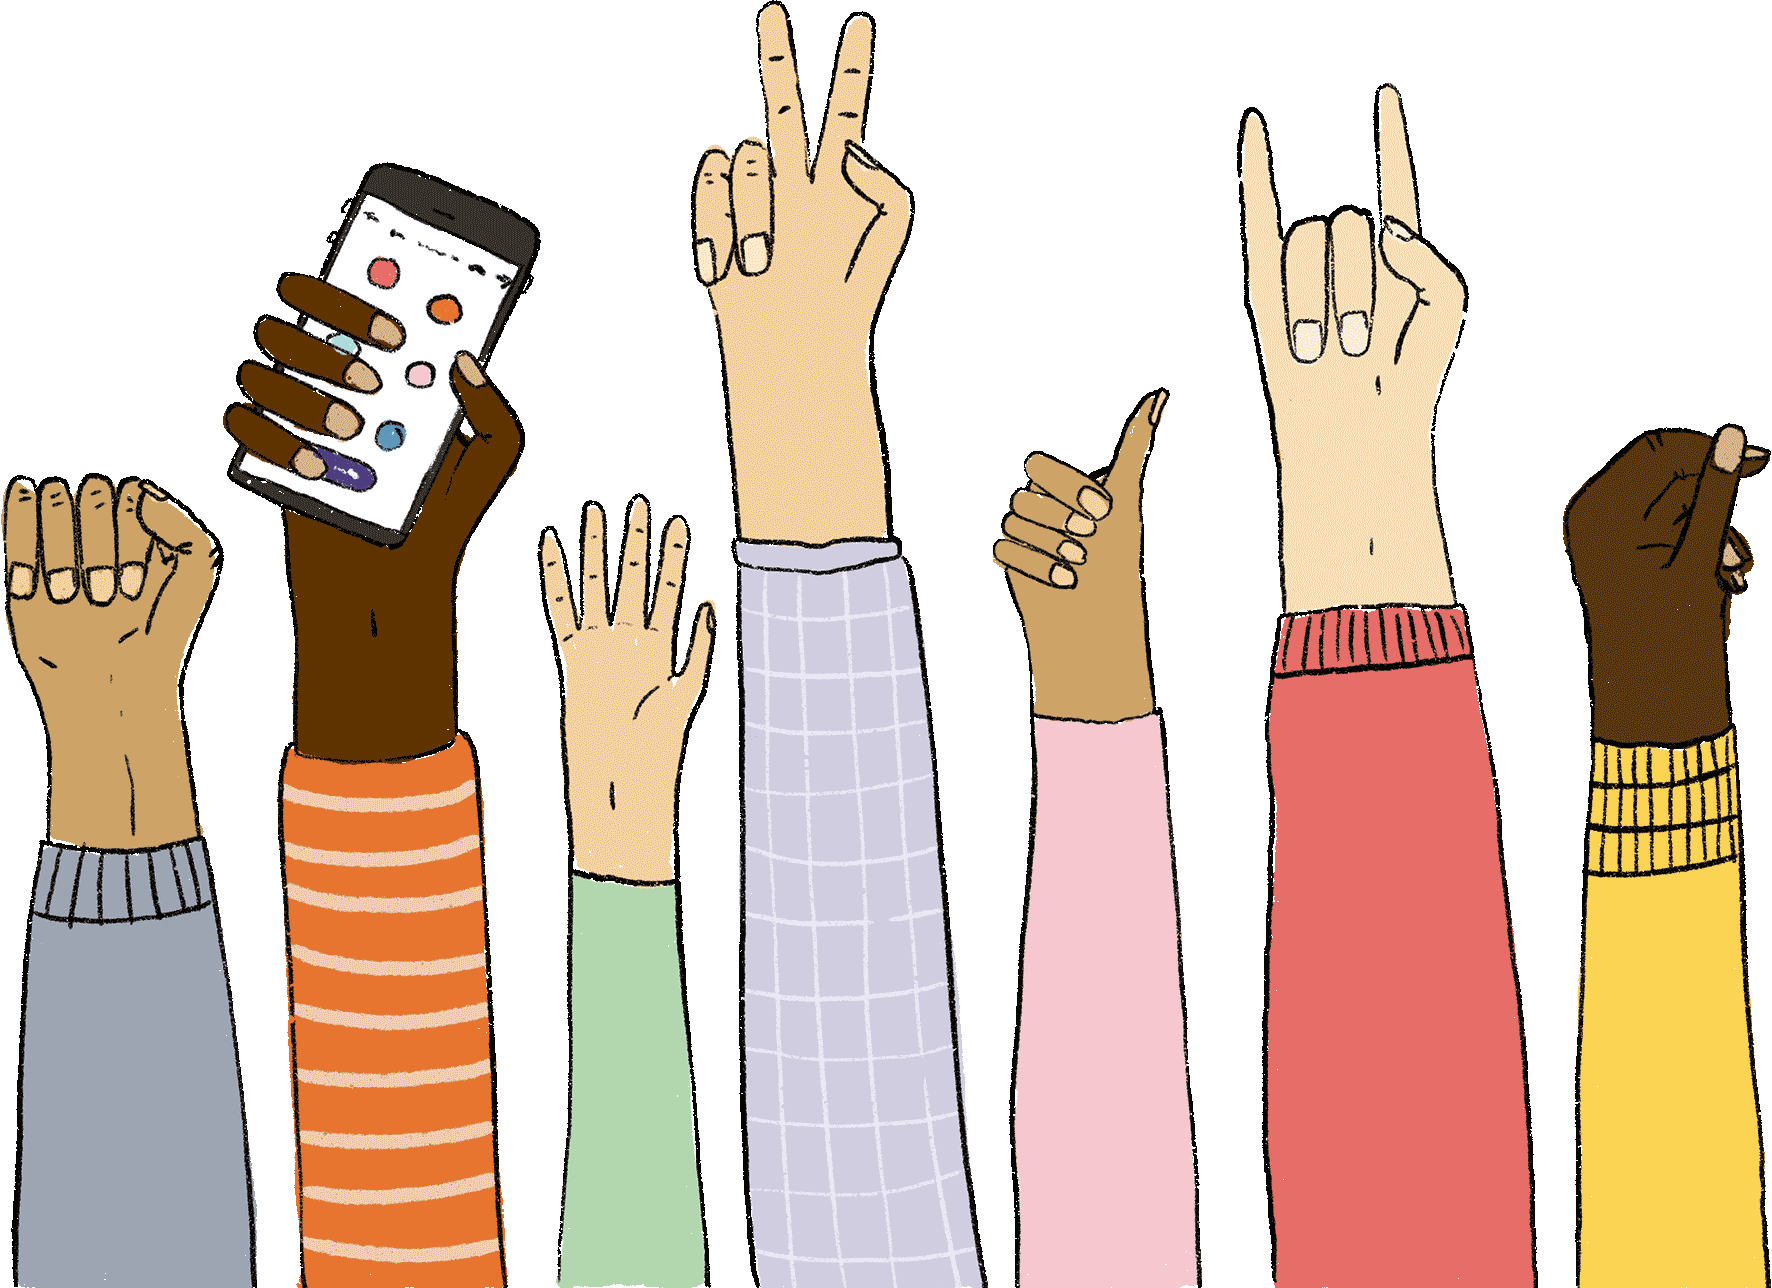
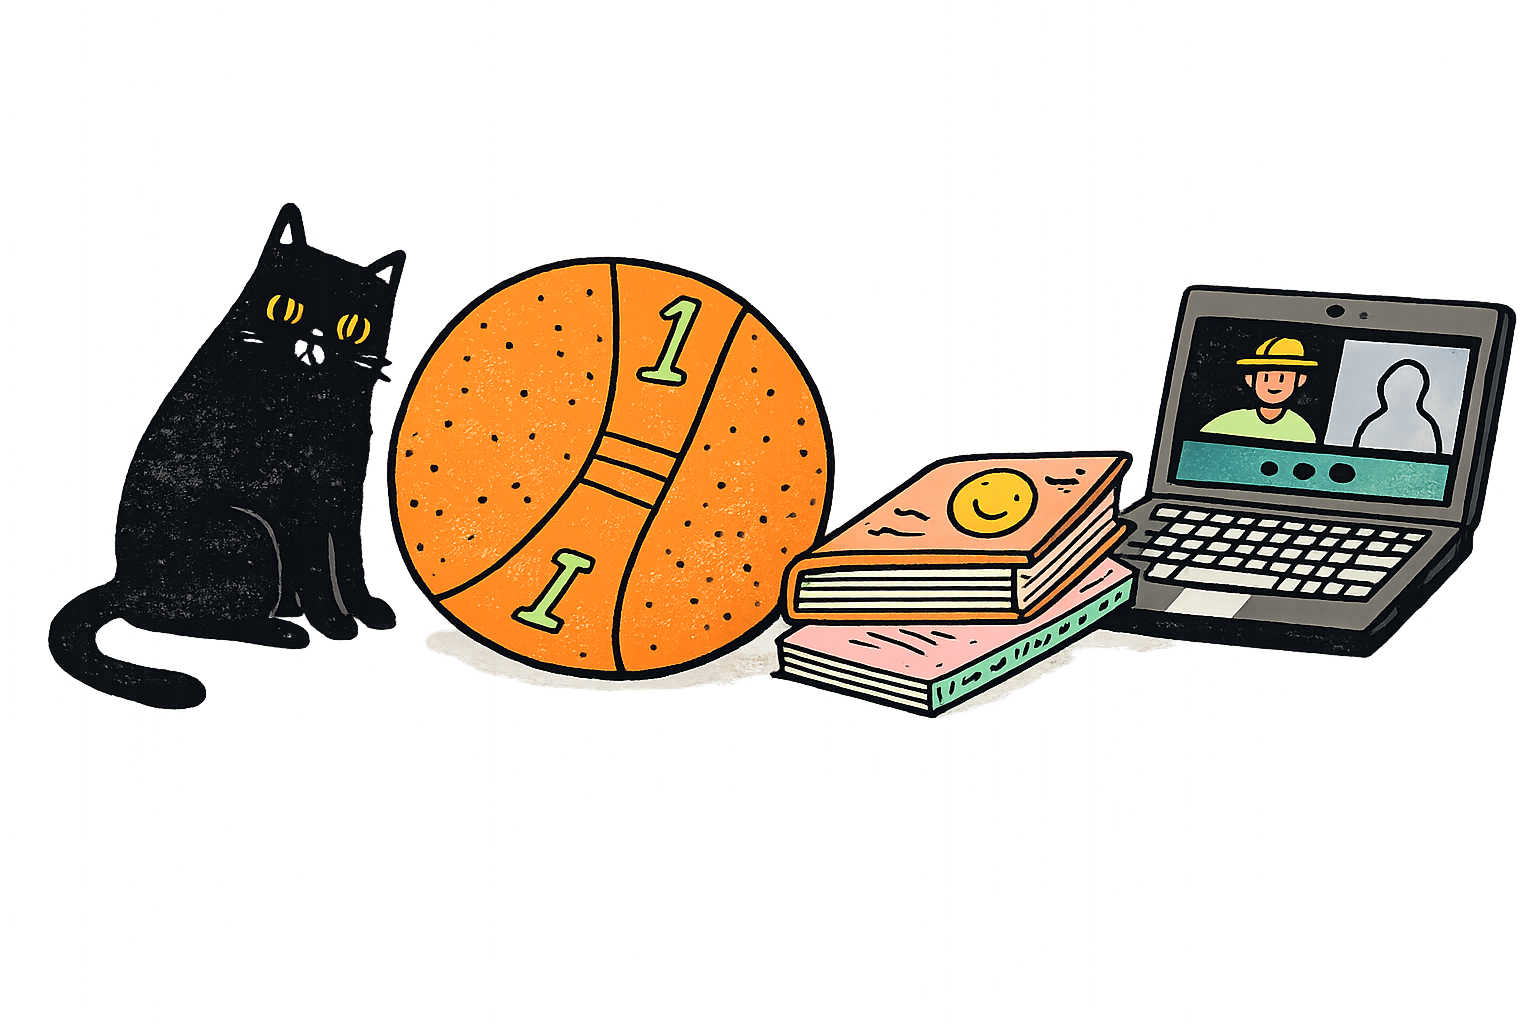
Update Frontend

diff --git a/src/lib/screen-content.tsx b/src/lib/screen-content.tsx
@@ -74,20 +74,29 @@ function Cover() {
   const tr = useTr();
 
   return (
-    <div className="relative flex h-full min-h-0 w-full flex-col overflow-hidden text-white">
-      <div className="mx-auto w-full max-w-[1400px] shrink-0 px-5 pt-1">
-        <h1 className="font-display text-[clamp(18px,1.5vw,25px)] font-medium leading-[1.2]">
-          {tr("Vahvuusportfolio lukiolaiselle")}
-        </h1>
+    <div className="relative flex h-full min-h-[620px] w-full flex-col overflow-hidden px-[5%] text-center font-display text-white">
+      <div className="relative z-10 flex shrink-0 flex-col items-center pt-[7vh]">
+        <div className="text-[clamp(24px,2.4vw,42px)] font-bold leading-none tracking-[0] text-white">
+          {tr("Huomaa hyvä!®")}
+        </div>
 
-        <p className="mt-1 max-w-[1200px] text-[clamp(15px,1.15vw,20px)] leading-[1.4]">
-          {tr(
-            "Tervetuloa vahvuusseikkailuun! Tällä matkalla opit tunnistamaan, kehittämään ja hyödyntämään omia vahvuuksiasi — lukiossa, kotona, vapaa-ajalla ja ystävien kanssa.",
-          )}
-        </p>
+        <h1
+          className="
+            mt-[3vh]
+            max-w-[900px]
+            text-[clamp(30px,3.4vw,48px)]
+            font-medium
+            leading-[1.08]
+            tracking-[0]
+            text-white
+          "
+        >
+          {" "}
+          {trLines(tr, "Vahvuusportfolio\nlukiolaiselle")}
+        </h1>
       </div>
 
-      <div className="flex min-h-0 flex-1 items-end justify-center px-5 pb-0 pt-4">
+      <div className="relative z-0 flex min-h-0 flex-1 items-end justify-center pb-[8vh] pt-[6vh]">
         <img
           src="/illustrations/naytto-1.png"
           alt=""
@@ -95,9 +104,9 @@ function Cover() {
           className="
             block
             h-auto
-            w-auto
-            max-h-[420px]
-            max-w-[520px]
+            w-full
+            max-h-[44vh]
+            max-w-[1160px]
             object-contain
             object-center
             pointer-events-none
@@ -2116,12 +2125,12 @@ export default function Karkkikauppa() {
 
 .ns{--pu:#6C4F9C;--pud:#4E3A78;--ye:#F4C84A;--co:#E8736B;--ink:#2B2342;--wood:#B99444;
  position:relative;display:flex;flex-direction:column;width:100%;height:100%;min-height:0;overflow:hidden;
- padding:18px 20px 0;font-family:'Fredoka',system-ui,sans-serif;background:var(--pu);color:#fff}
+ padding:18px 20px 0;font-family:var(--font-display),'Fredoka',system-ui,sans-serif;background:#7654ad;color:#fff}
 .shopscroll{flex:1;min-height:0;overflow-y:auto;overflow-x:hidden;padding-bottom:32px}
 .ns *{box-sizing:border-box}
-.fd{font-family:'Fredoka',system-ui,sans-serif;font-weight:500}
+.fd{font-family:var(--font-display),'Fredoka',system-ui,sans-serif;font-weight:600}
 
-.deco{position:absolute;pointer-events:none;z-index:0}
+.deco{display:none}
 .d1{top:-100px;left:-76px;width:272px;height:272px;border-radius:50%;background:#EE8C93}
 .d2{top:88px;right:-56px;width:0;height:0;border-left:96px solid transparent;border-right:96px solid transparent;border-bottom:132px solid var(--ye);transform:rotate(20deg)}
 .d3{bottom:170px;left:-58px;width:190px;height:190px;border-radius:50%;background:#8FB6D9;opacity:.55}
@@ -2129,11 +2138,15 @@ export default function Karkkikauppa() {
 
 .hd{position:relative;z-index:2;max-width:1310px;margin:0 auto 14px;display:flex;
  justify-content:space-between;align-items:flex-start;gap:26px;flex-wrap:wrap}
-.h1{font-size:clamp(24px,2.9vw,36px);line-height:1.03;letter-spacing:-.4px;max-width:15ch;margin:0}
-.h1 small{display:block;font-family:'Fredoka';font-weight:400;font-size:13px;line-height:1.55;
- opacity:.9;margin-top:11px;max-width:40ch;letter-spacing:0}
+.h1{font-size:clamp(30px,3.5vw,52px);line-height:1.04;letter-spacing:0;max-width:18ch;margin:0;
+ color:#fff;text-shadow:0 3px 0 rgba(43,35,66,.22)}
+.h1 small{display:block;font-family:var(--font-display),'Fredoka',system-ui,sans-serif;font-weight:500;
+ font-size:clamp(15px,1.35vw,19px);line-height:1.35;color:#fff;opacity:1;margin-top:14px;
+ max-width:42ch;letter-spacing:0;text-shadow:0 2px 0 rgba(43,35,66,.18)}
 .namu{position:relative;flex:0 0 auto;padding:13px 38px;border:3px solid var(--ye);border-radius:11px;
- font-family:'Fredoka';font-size:25px;color:var(--ye);letter-spacing:1px;transform:rotate(-3deg);white-space:nowrap}
+ font-family:var(--font-display),'Fredoka',system-ui,sans-serif;font-size:25px;color:var(--ye);
+ letter-spacing:1px;transform:rotate(-3deg);white-space:nowrap;background:rgba(78,58,120,.72);
+ box-shadow:0 4px 0 rgba(43,35,66,.28)}
 .namu::before,.namu::after{content:"";position:absolute;top:50%;margin-top:-18px;width:0;height:0;
  border-top:18px solid transparent;border-bottom:18px solid transparent}
 .namu::before{left:-24px;border-right:21px solid var(--ye)}
@@ -2165,25 +2178,26 @@ export default function Karkkikauppa() {
 .lid{height:13px;border-radius:10px 10px 3px 3px;background:rgba(255,255,255,.30);
  border:1.5px solid rgba(255,255,255,.44);margin:0 -2px;box-shadow:0 3px 6px rgba(0,0,0,.2)}
 .tub{position:relative;border-radius:12px 12px 8px 8px;overflow:hidden;display:flex;flex-direction:column;
- background:linear-gradient(180deg,rgba(255,255,255,.21),rgba(255,255,255,.085) 44%,rgba(255,255,255,.15));
- border:1.5px solid rgba(255,255,255,.34);border-top:0;transition:box-shadow .2s,background .3s;
+ background:linear-gradient(180deg,rgba(255,255,255,.28),rgba(255,255,255,.14) 42%,rgba(255,255,255,.20));
+ border:1.5px solid rgba(255,255,255,.58);border-top:0;transition:box-shadow .2s,background .3s;
  box-shadow:inset 0 -16px 22px rgba(0,0,0,.15),0 5px 0 rgba(43,35,66,.3)}
 .h0 .tub{height:146px}.h1 .tub{height:170px}.h2 .tub{height:194px}
-.txt{flex:1 1 auto;padding:11px 10px 2px;font-size:9.3px;line-height:1.36;letter-spacing:.5px;
- text-transform:uppercase;font-weight:500;text-align:center;text-shadow:0 1px 2px rgba(43,35,66,.55)}
+.txt{flex:1 1 auto;padding:12px 11px 2px;font-size:10px;line-height:1.34;letter-spacing:.35px;
+ text-transform:uppercase;font-weight:700;text-align:center;color:#fff;
+ text-shadow:0 1px 2px rgba(24,17,42,.72),0 0 10px rgba(24,17,42,.34)}
 .pile{flex:0 0 auto;height:44px;display:flex;align-items:flex-end;justify-content:center;padding-bottom:7px}
 .pile>span{margin:0 -5px;filter:drop-shadow(0 2px 2px rgba(0,0,0,.3))}
 .sticker{position:absolute;left:8px;bottom:8px;width:22px;height:15px;border-radius:2px;
  background:#fff;opacity:.9;box-shadow:0 1px 2px rgba(0,0,0,.3)}
 .chk{position:absolute;top:-10px;right:-8px;width:30px;height:30px;border-radius:50%;background:var(--ye);
- color:var(--ink);display:grid;place-items:center;font-family:'Fredoka';font-size:16px;border:3px solid var(--pu);
+ color:var(--ink);display:grid;place-items:center;font-family:var(--font-display),'Fredoka',system-ui,sans-serif;font-size:16px;border:3px solid var(--pu);
  box-shadow:0 2px 0 rgba(43,35,66,.45);animation:pop .3s cubic-bezier(.34,1.8,.64,1);z-index:6}
 @keyframes pop{0%{transform:scale(0) rotate(-45deg)}100%{transform:scale(1) rotate(0)}}
 
 /* takapuoli: vahvuus + sitä vastaava karkki */
 .rev{flex:1 1 auto;display:flex;flex-direction:column;align-items:center;justify-content:center;
  gap:8px;padding:12px 9px;text-align:center}
-.rev .nm{font-family:'Fredoka';line-height:1.12;font-size:15px}
+.rev .nm{font-family:var(--font-display),'Fredoka',system-ui,sans-serif;line-height:1.12;font-size:15px}
 .rev .nm.long{font-size:11.5px}
 .rev .vt{font-size:7.6px;letter-spacing:1.3px;text-transform:uppercase;opacity:.6}
 .rev .cd{filter:drop-shadow(0 3px 3px rgba(0,0,0,.35))}
@@ -2218,7 +2232,7 @@ export default function Karkkikauppa() {
 .bag.bump{animation:bb .36s cubic-bezier(.34,1.7,.64,1)}
 @keyframes bb{0%{transform:scale(1)}32%{transform:scale(1.15,.86)}66%{transform:scale(.95,1.07)}100%{transform:scale(1)}}
 
-.cnt{font-family:'Fredoka';font-size:14px;color:#3B2C10;line-height:1.2;flex:0 0 auto}
+.cnt{font-family:var(--font-display),'Fredoka',system-ui,sans-serif;font-size:14px;color:#3B2C10;line-height:1.2;flex:0 0 auto}
 .cnt b{display:block;font-size:34px;line-height:1;color:#241A06}
 .slots{display:flex;gap:6px;margin-top:8px}
 .slot{width:13px;height:13px;border-radius:50%;background:rgba(59,44,16,.25);
@@ -2227,11 +2241,11 @@ export default function Karkkikauppa() {
 
 .won5{display:flex;gap:8px;align-items:center;flex-wrap:wrap;justify-content:center;min-width:0}
 .pill{display:flex;align-items:center;gap:7px;background:#FFF6E8;color:var(--ink);
- border-radius:999px;padding:6px 15px 6px 7px;font-family:'Fredoka';font-size:13px;white-space:nowrap;
+ border-radius:999px;padding:6px 15px 6px 7px;font-family:var(--font-display),'Fredoka',system-ui,sans-serif;font-size:13px;white-space:nowrap;
  box-shadow:0 3px 0 rgba(43,35,66,.32);animation:rise .4s backwards cubic-bezier(.34,1.6,.64,1)}
 @keyframes rise{from{transform:translateY(16px);opacity:0}to{transform:none;opacity:1}}
 
-.btn{font-family:'Fredoka';font-size:17px;border:0;border-radius:999px;padding:15px 30px;cursor:pointer;
+.btn{font-family:var(--font-display),'Fredoka',system-ui,sans-serif;font-size:17px;border:0;border-radius:999px;padding:15px 30px;cursor:pointer;
  background:var(--co);color:#fff;box-shadow:0 5px 0 #A8463F;transition:.12s;white-space:nowrap;flex:0 0 auto}
 .btn:hover:not(:disabled){transform:translateY(-2px);box-shadow:0 7px 0 #A8463F}
 .btn:active:not(:disabled){transform:translateY(3px);box-shadow:0 2px 0 #A8463F}
@@ -2240,7 +2254,7 @@ export default function Karkkikauppa() {
 .btn.go:hover{box-shadow:0 7px 0 #C39C22}
 @keyframes br{0%,100%{transform:scale(1)}50%{transform:scale(1.05)}}
 .link{background:none;border:0;color:inherit;opacity:.72;text-decoration:underline;cursor:pointer;
- font-size:13px;font-family:'Fredoka';padding:6px}
+ font-size:13px;font-family:var(--font-display),'Fredoka',system-ui,sans-serif;padding:6px}
 
 /* ── kuitti ───────────────────────────────── */
 .receipt{position:relative;z-index:2;max-width:740px;margin:24px auto 0;background:#FFF9EF;color:var(--ink);
@@ -2257,11 +2271,18 @@ export default function Karkkikauppa() {
 .line em{font-style:normal;font-size:9px;letter-spacing:1.3px;text-transform:uppercase;opacity:.48}
 .q{font-weight:500;font-size:13px;margin:20px 0 8px;line-height:1.5}
 .ta{width:100%;min-height:80px;border:2px solid #E6DAC2;border-radius:12px;padding:11px 13px;background:#fff;
- font-family:'Fredoka';font-size:13px;color:var(--ink);resize:vertical}
+ font-family:var(--font-display),'Fredoka',system-ui,sans-serif;font-size:13px;color:var(--ink);resize:vertical}
 .ta:focus{outline:0;border-color:var(--pu)}
 .acts{display:flex;gap:16px;align-items:center;margin-top:22px;flex-wrap:wrap}
 
-@media (max-width:820px){.bin{width:150px}.h0 .tub{height:150px}.h1 .tub{height:176px}.h2 .tub{height:202px}}
+@media (max-width:820px){
+ .hd{gap:16px}
+ .h1{font-size:32px;max-width:100%}
+ .h1 small{font-size:15px}
+ .namu{font-size:18px;padding:10px 24px}
+ .bin{width:150px}.h0 .tub{height:150px}.h1 .tub{height:176px}.h2 .tub{height:202px}
+ .txt{font-size:9.5px}
+}
 @media (prefers-reduced-motion:reduce){.ns *{animation:none!important;transition:none!important}}
       `}</style>
 
